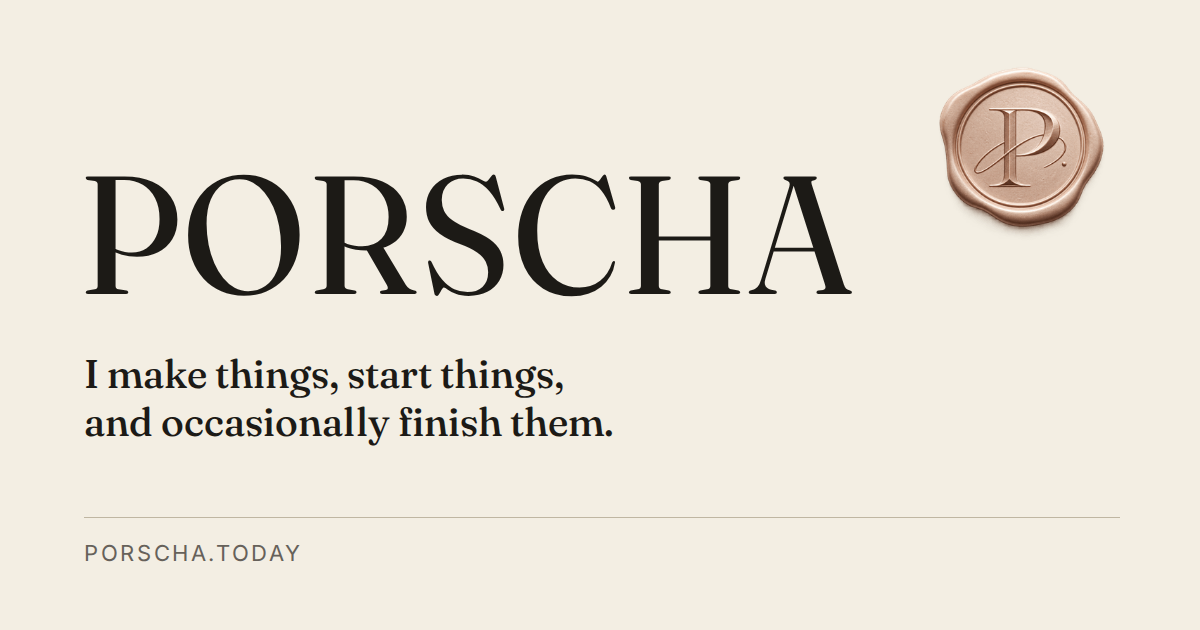
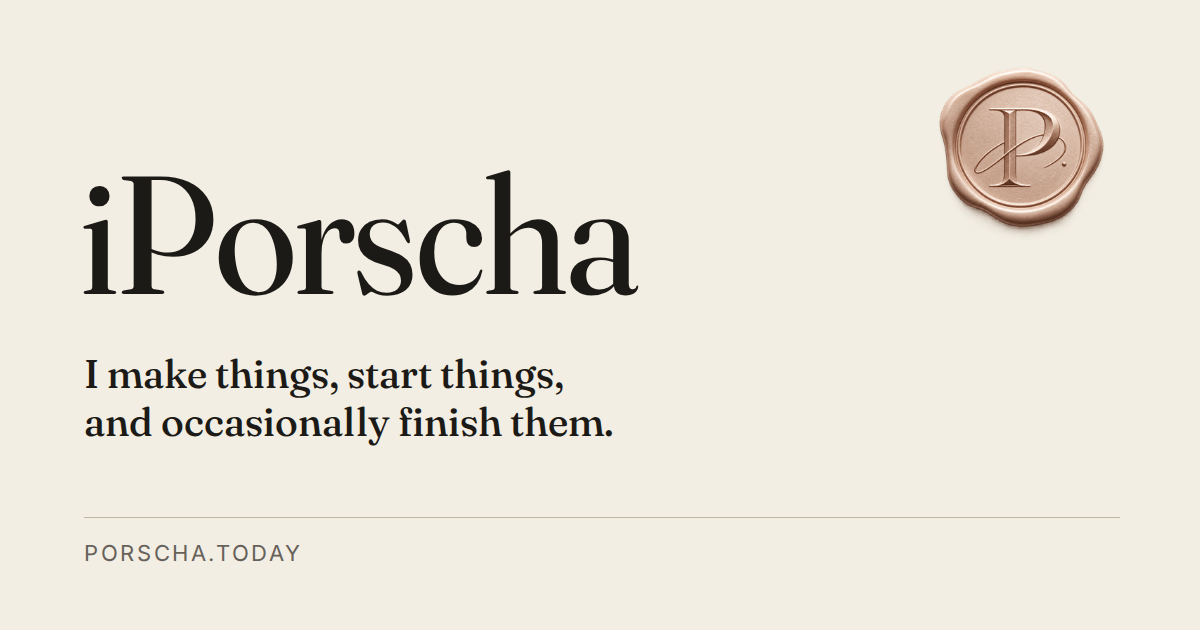
The website is called iPorscha
The wordmark on the opening screen, browser tabs, the footer and the
social preview now say iPorscha. Porscha stays the person the site
speaks about (the structured data, the snapshot's description, the
console greeting), and the site-wide "Name" field says so.

Claude-Session: https://claude.ai/code/session_01C8DYnRn2eYwneCf5ZPPGYc

Changed region(s): [[0.0617, 0.2714, 0.7092, 0.4825]]

diff --git a/src/app/(public)/page.tsx b/src/app/(public)/page.tsx
@@ -12,7 +12,7 @@ export const dynamic = "force-dynamic";
 export async function generateMetadata(): Promise<Metadata> {
   const { global } = await getSiteContent();
   return {
-    title: { absolute: `${global.name} — ${site.domain}` },
+    title: { absolute: `${site.name} — ${site.domain}` },
     description: global.description,
     alternates: { canonical: "/" },
   };
@@ -44,10 +44,10 @@ export default async function HomePage() {
       <div className="grid gap-x-12 gap-y-8 lg:grid-cols-[minmax(0,8fr)_minmax(0,4fr)] lg:items-end">
         <div className="max-w-[40rem]">
           <h1
-            className="reveal type-display uppercase text-[clamp(3.25rem,11vw,8rem)] tracking-[0.02em]"
+            className="reveal type-display text-[clamp(3.25rem,11vw,8rem)] tracking-[-0.01em]"
             style={{ ["--reveal-step" as string]: 0 }}
           >
-            {global.name}
+            {site.name}
           </h1>
           <p
             className="reveal type-heading mt-6 text-[clamp(1.25rem,2.6vw,1.75rem)] text-ink-soft"

diff --git a/src/components/console/site-editor/fields.ts b/src/components/console/site-editor/fields.ts
@@ -53,7 +53,7 @@ const IMAGE_HELP = "Uploaded images have their metadata (including location) rem
 
 export const PAGE_FIELDS: Record<PageKey, FieldSpec[]> = {
   global: [
-    { kind: "text", path: "name", label: "Name", help: "Shown in the opening screen, the footer and browser tabs.", maxLength: 60 },
+    { kind: "text", path: "name", label: "Your name", help: "Used wherever the site speaks about you, such as the snapshot’s description. The site’s own name, iPorscha, is fixed.", maxLength: 60 },
     { kind: "textarea", path: "description", label: "Site description", help: "What search engines and link previews show.", rows: 3 },
     {
       kind: "list",

diff --git a/src/content/site/global.ts b/src/content/site/global.ts
@@ -23,10 +23,13 @@ export const globalDefaults = {
   contact: { label: "Get in touch", href: "https://github.com/chaosbrewing" },
 } satisfies GlobalContent;
 
-/** Fixed identity used for metadata and the social preview. */
+/**
+ * Fixed identity of the website itself: the wordmark, browser tabs,
+ * the footer and the social preview. The person is `globalDefaults.name`.
+ */
 export const site = {
-  name: "Porscha",
+  name: "iPorscha",
   domain: "porscha.today",
-  title: "Porscha",
+  title: "iPorscha",
   fallbackUrl: "https://porscha.today",
 } as const;

diff --git a/src/app/layout.tsx b/src/app/layout.tsx
@@ -20,7 +20,7 @@ export const metadata: Metadata = {
     siteName: site.domain,
     type: "website",
     locale: "en_AU",
-    images: [{ url: "/og/porscha.png", width: 1200, height: 630, alt: "Porscha" }],
+    images: [{ url: "/og/porscha.png", width: 1200, height: 630, alt: site.title }],
   },
   twitter: {
     card: "summary_large_image",

diff --git a/docs/ROADMAP.md b/docs/ROADMAP.md
@@ -56,6 +56,9 @@
 - The signature is now the wax seal (`public/brand/seal.png`), used in
   the header, footer, margins, browser icons and the social preview.
   New opening portrait.
+- The website is called iPorscha: the wordmark, browser tabs, footer
+  and social preview say so. Porscha remains the person the site
+  speaks about.
 - The interface follows the boards: photographic doors on the opening
   screen, wide photographic windows on Work, a full-width project
   picture with numbered sections on Building, a picture beside the

diff --git a/README.md b/README.md
@@ -1,6 +1,7 @@
 # porscha.today
 
-Porscha's place on the internet: an introduction, not a biography.
+iPorscha is Porscha's place on the internet: an introduction, not a
+biography.
 Visitors gradually meet her through selected work, art, a living
 snapshot and small fragments — without being handed her private life.
 Behind sign-in, the same app is her private operational console.
